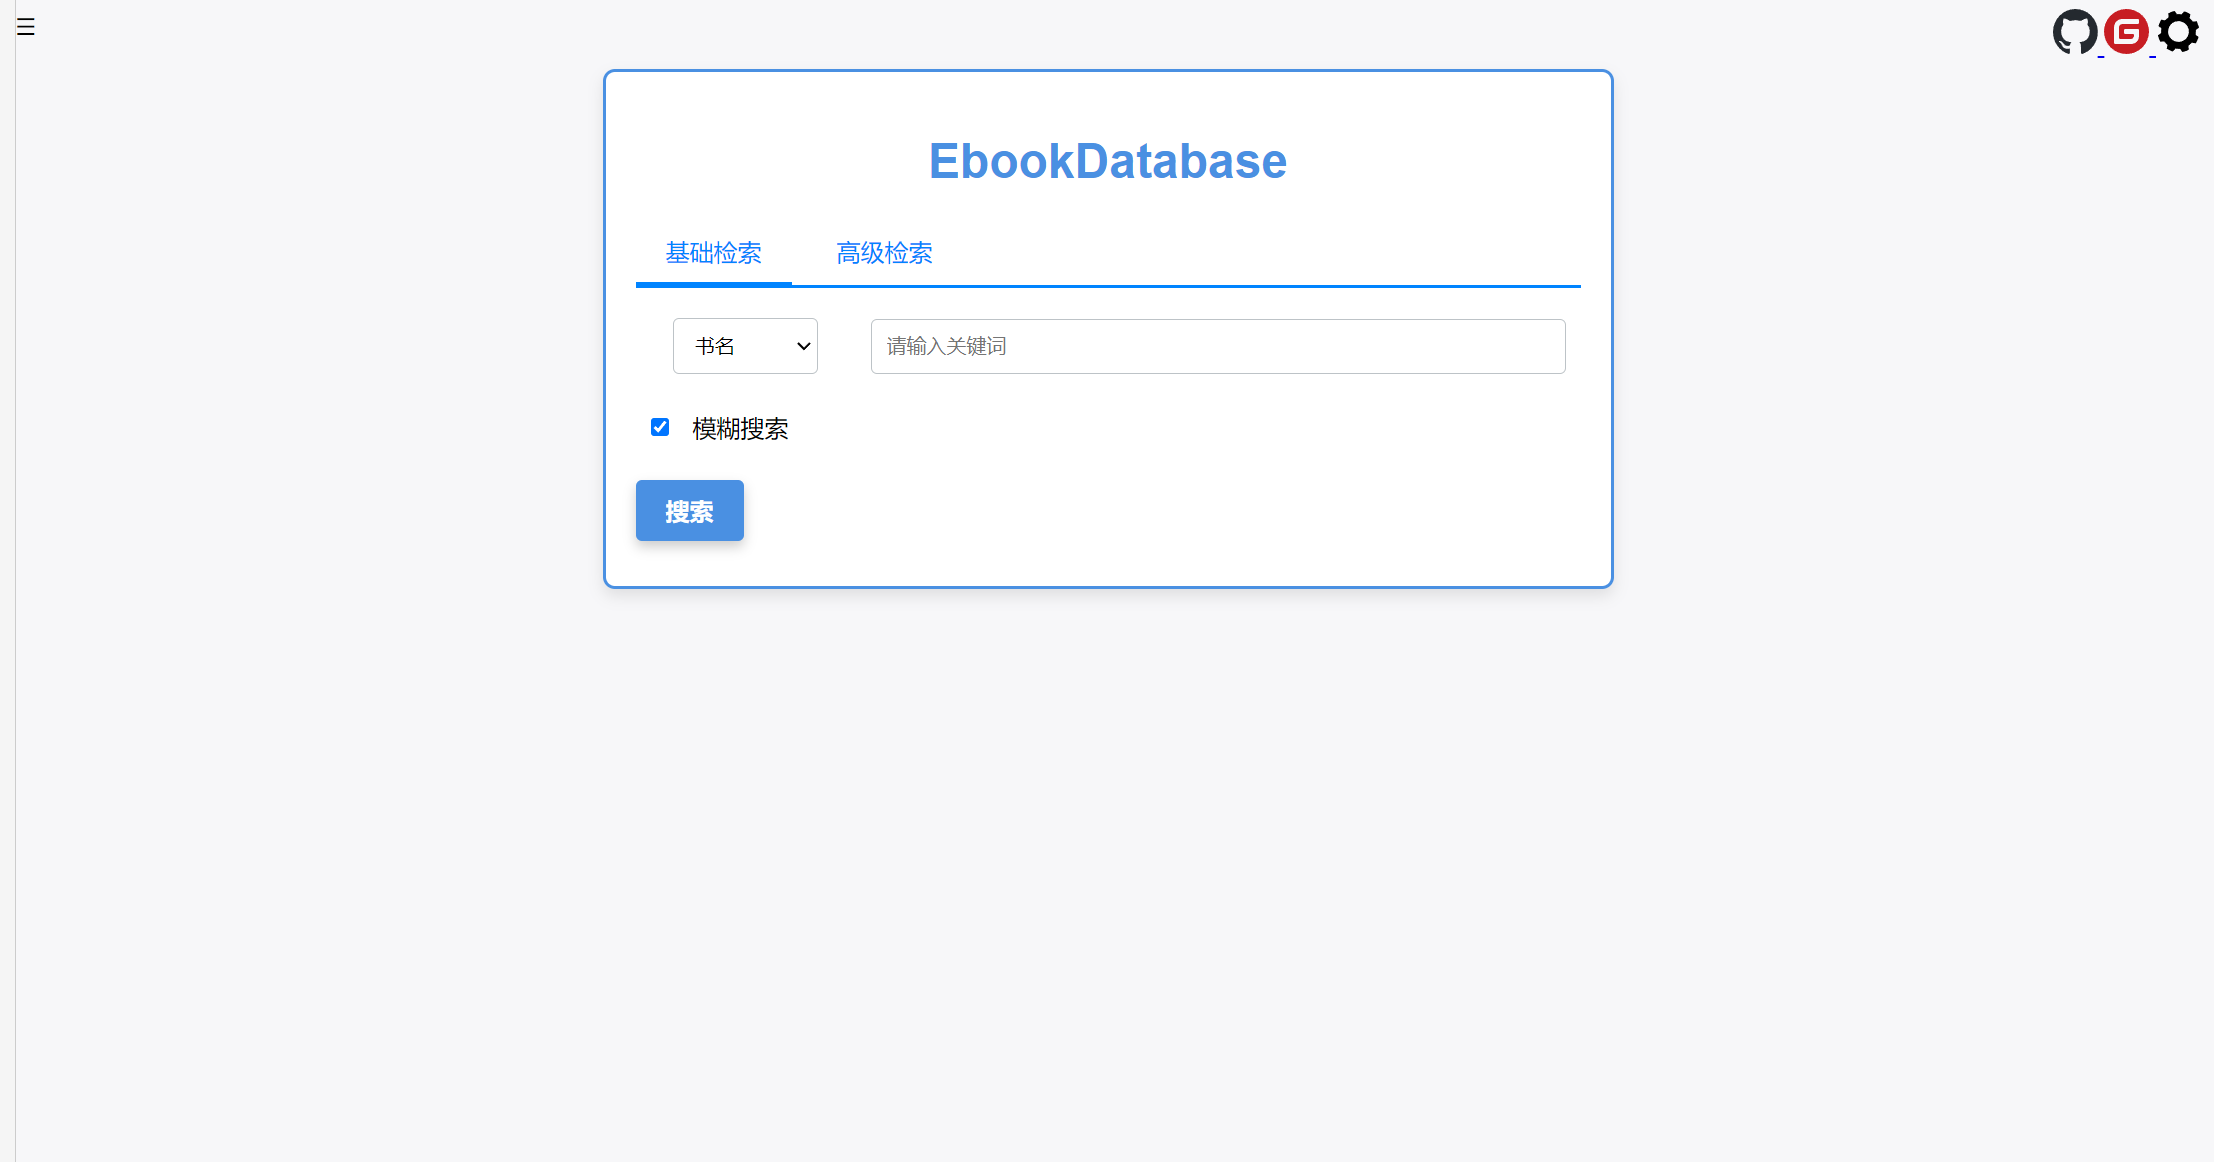
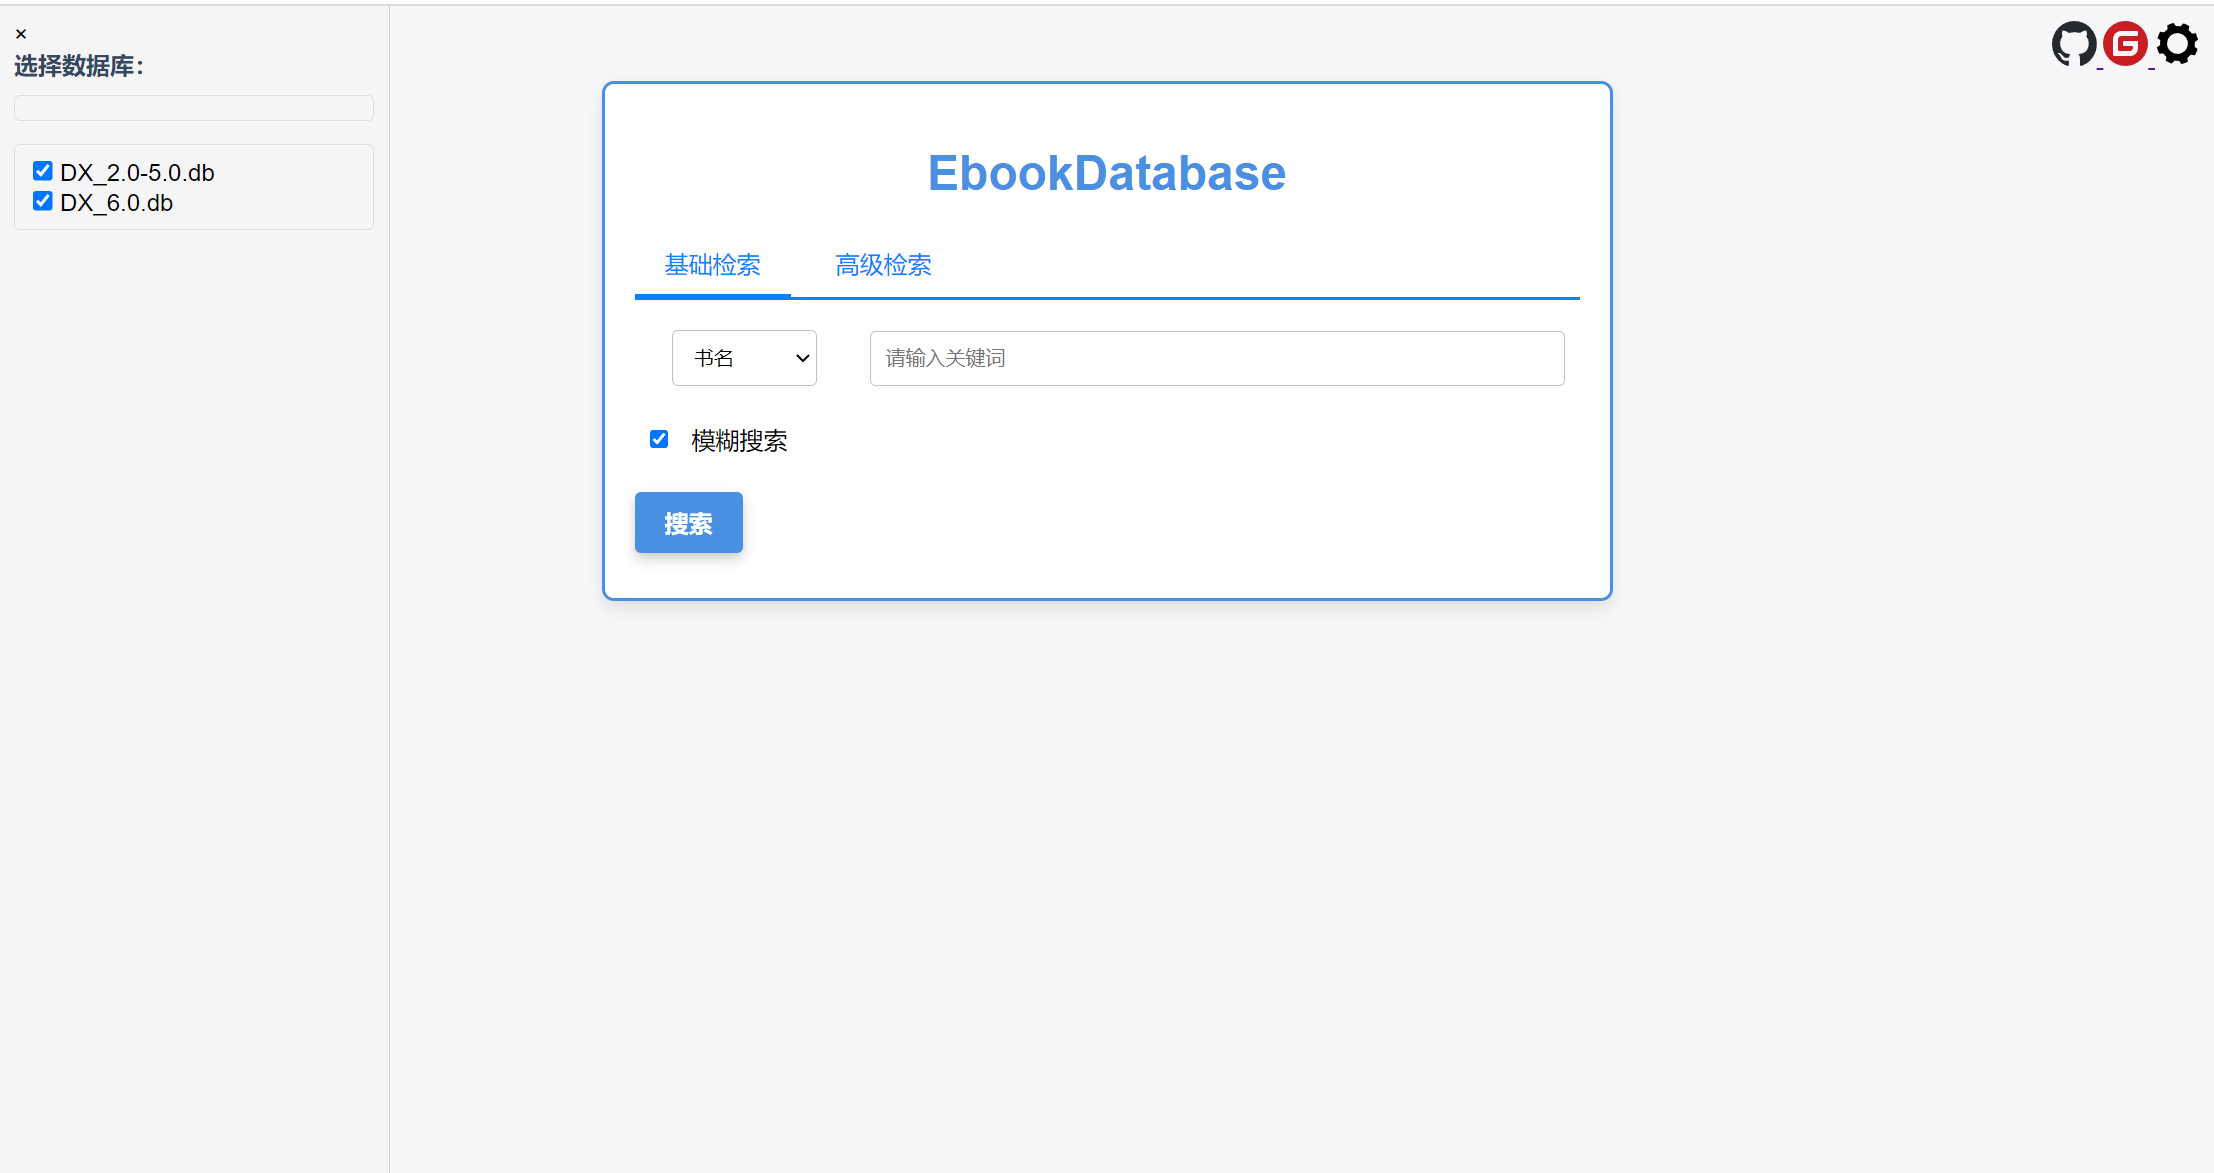
V0.0.4

diff --git a/README.md b/README.md
@@ -2,13 +2,11 @@
 
 ## 简介
 
-这是本地化检索的电子数据。该项目使用 FastAPI 和 SQLite 数据库构建，并可以通过 本地 与 Docker 轻松部署。
+这是一款本地化的电子书检索系统，支持使用高级检索进行查询。
 
-目前本项目包含的数据库：
+该项目使用 FastAPI 和 SQLite 数据库构建，并可以通过本项目发行包轻松部署。
 
-读秀2.0-5.0
-
-这个数据库是通过很多渠道汇集到一起形成的，所以会出现信息不全等种种情况发生，还望谅解。
+本项目提供的数据库是通过很多渠道汇集到一起形成的，所以会出现信息不全等种种情况发生，还望谅解。
 
 如果你发现数据库内容错误或者有好的内容想要与大家分享，请与本人联系，
 
@@ -19,6 +17,7 @@
 QQ群：942385978
 
 ![主页页面](image/img.png)
+![主页页面](image/img_1.png)
 
 ## 数据库备份
 
@@ -95,52 +94,14 @@ python app.py
 
 ---
 
-### 使用 Docker 运行
-
-1. 首先，确保您已经安装了 [Docker](https://www.docker.com/products/docker-desktop)。
-
-2. 克隆此仓库：
-
-    ```bash
-    git clone https://github.com/Hellohistory/DX2_5.git
-    cd your-repo-dir
-    ```
-
-3. 构建 Docker 镜像：
-
-    ```bash
-    docker build -t dx2_5 .
-    ```
-
-4. 运行 Docker 容器：
-
-    ```bash
-    docker run -p 10223:10223 dx2_5
-    ```
-
-这样就可以在 `http://localhost:10223/`当中使用
-
-## Docker 容器存储设置
-
-在 Dockerfile 中，使用 `RUN mkdir /app/instance` 命令来在容器的 `/app` 工作目录下创建一个名为 `instance` 的文件夹。这个文件夹用于存放 SQLite 数据库。
-
-为了使这个数据库文件夹能够从外部访问并持久化存储，可以在运行 Docker 容器时使用 `-v` 参数来将这个 `instance` 文件夹映射到宿主机的一个特定目录。
-
-   ```bash
-   docker run -v /path/to/instance:/app/instance -v /path/to/log:/app/log your-image-name
-   ```
-
-这里，`/path/to/instance` 和 `/path/to/logs` 是在宿主机上用于存放数据库和日志的目录。
-
-
 ## 功能
 
-- 本地化检索
+- 支持本地基础检索和高级检索
 - 支持模糊搜索和准确搜索
 - 分页显示结果
 
-![检索结果页](image/img_1.png)
-![检索结果页](image/img_2.png)
+![检索结果页](image/img_3.png)
+![检索结果页](image/img_4.png)
 
 ## Bug反馈
 

diff --git a/Markdown/数据库下载文档.md b/Markdown/数据库下载文档.md
@@ -1,18 +1,38 @@
 # 数据库列表
 ## 最新链接
+
 ### DX2_5:
-- [百度网盘链接](https://pan.baidu.com/s/1I10grt-by9EVBO93Uk12wQ?pwd=dx25)  提取码：dx25
-- 秒传版：ae9942a4728e29971bdf954ed1494552#1875845120#DX_2.0-5.0.db
-- [热心书友提供的夸克网盘链接](https://pan.quark.cn/s/a87f586373fd) 提取码：gjgN
-- [123云盘](https://www.123pan.com/s/oNv9-DLI2.html)  提取码:dx25
+
+更新时间：2023-11-5
+
+更新说明：
+
+1. 增加dxid列，支持使用dxid查询
+
+2. 增加多列索引，检索更快
+
+链接：
+
+- [百度网盘链接](链接：https://pan.baidu.com/s/1IJWg_qHGy-d3WelIU2KSLg?pwd=dx25) 提取码：dx25
+- [123云盘链接](https://www.123pan.com/s/oNv9-wVI2.html) 提取码:dx25
+
 
 ### DX6:
-- [123云盘链接](https://www.123pan.com/s/oNv9-NLI2.html)  提取码:dx60
-- [百度网盘链接](https://pan.baidu.com/s/1E9zVJG2Ta43w7zeRnq8xAQ?pwd=dx60)  提取码：dx60
-- [蓝奏云链接](https://xmy521.lanzouw.com/irSYX1d5lgcj)
+
+- [蓝奏云链接](https://xmy521.lanzouw.com/iFD4d1dtrm5i)
+- [123云盘链接](https://www.123pan.com/s/oNv9-MVI2.html) 提取码:dx60
 
 ## 旧版本
 ### DX2_5:
 - ~~[123网盘链接](https://www.123pan.com/s/oNv9-zWI2.html)  提取码:dx25~~
 - ~~[arlenzhang256提供的链接](https://cloud.zyuan.xyz/s/kR5s6) 在此表示感谢~~
 - ~~688f06358afa3ebab06f6d0ebe029c9c#3414196224#DX_2.0-5.0.db    感谢OpenSSL提供的百度网盘秒传链接~~
+- ~~[百度网盘链接](https://pan.baidu.com/s/1I10grt-by9EVBO93Uk12wQ?pwd=dx25)  提取码：dx25~~
+- ~~秒传版：ae9942a4728e29971bdf954ed1494552#1875845120#DX_2.0-5.0.db~~
+- ~~[热心书友提供的夸克网盘链接](https://pan.quark.cn/s/a87f586373fd) 提取码：gjgN~~
+- ~~[123云盘](https://www.123pan.com/s/oNv9-DLI2.html)  提取码:dx25~~
+
+### DX6:
+- ~~[123云盘链接](https://www.123pan.com/s/oNv9-NLI2.html)  提取码:dx60~~
+- ~~[百度网盘链接](https://pan.baidu.com/s/1E9zVJG2Ta43w7zeRnq8xAQ?pwd=dx60)  提取码：dx60~~
+- ~~[蓝奏云链接](https://xmy521.lanzouw.com/irSYX1d5lgcj)~~
